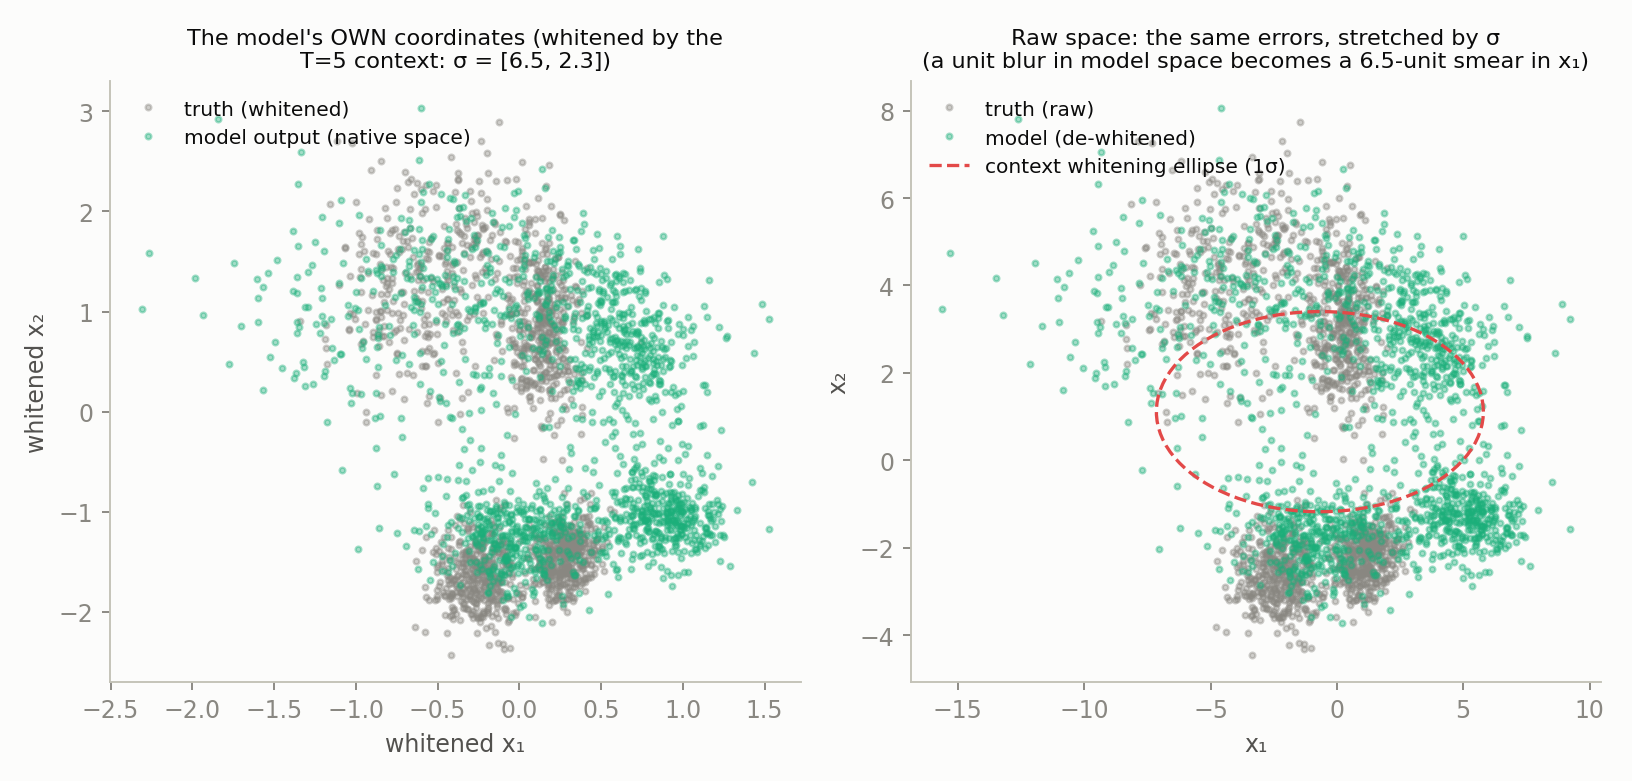
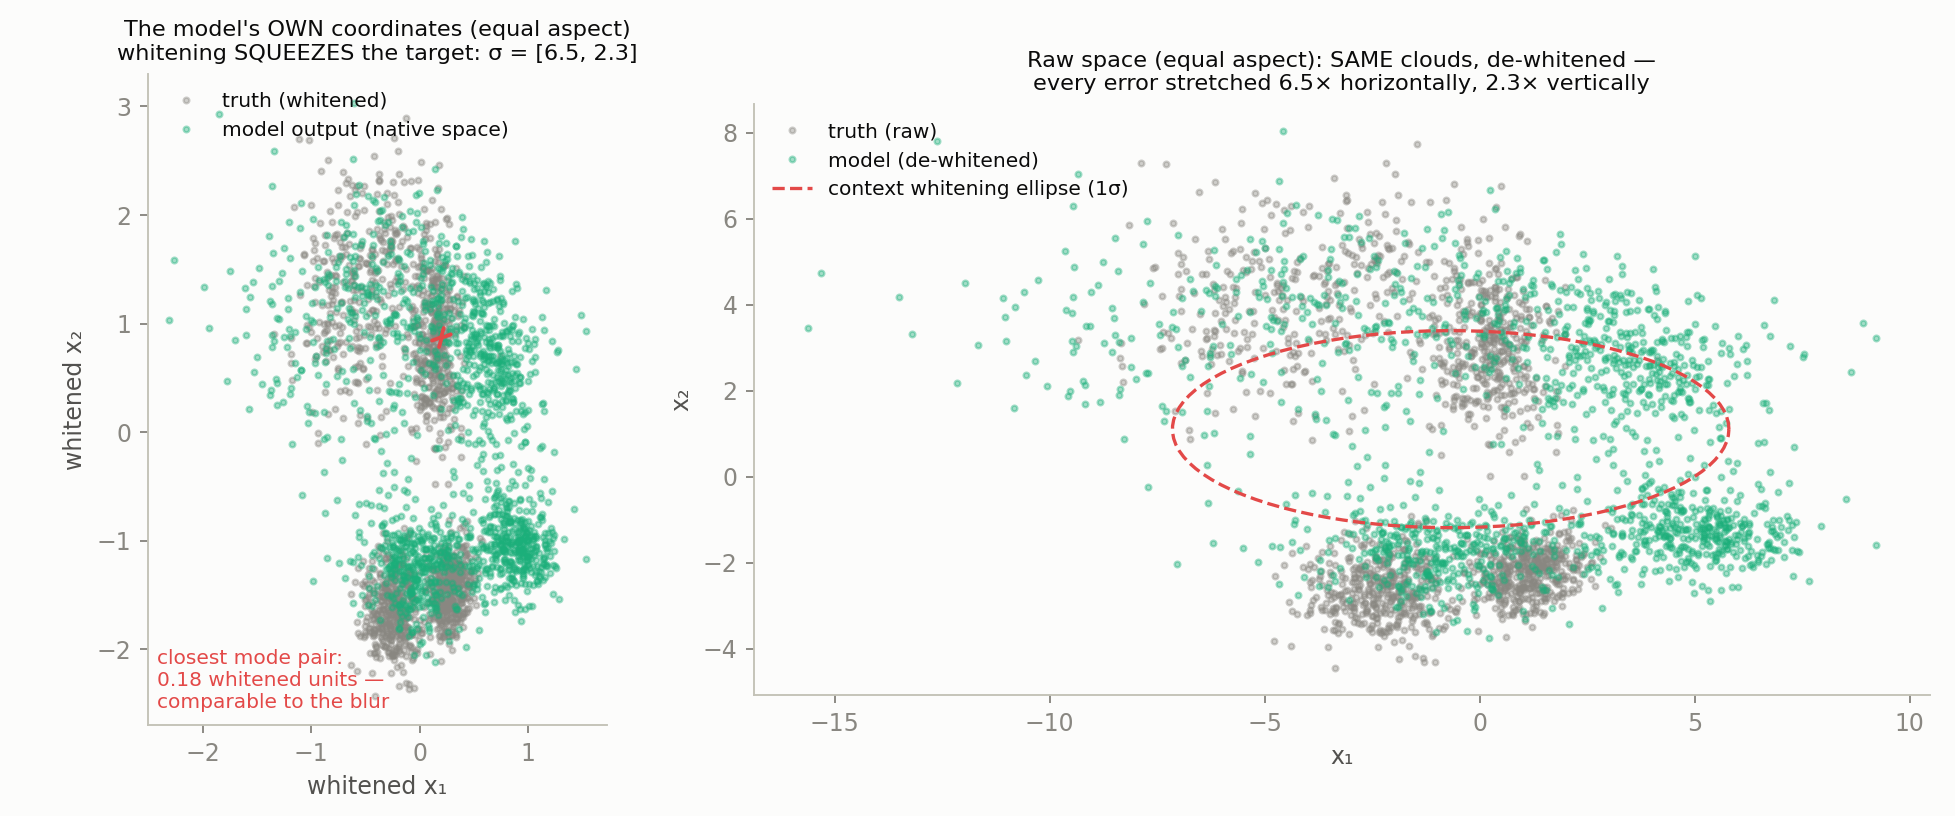
whitening diagnostic fixed: equal-aspect panels make the anisotropy visible as shape; closest-pair arrow computed (0.18 whitened units)

diff --git a/scripts/make_plots_whitediag.py b/scripts/make_plots_whitediag.py
@@ -40,15 +40,30 @@ truth = np.asarray(sample_x(jr.key(99), t, 1500))
 truth_w = np.asarray(whiten_apply(jnp.asarray(truth), ctx5.mu, ctx5.sigma))
 mu, sg = np.asarray(ctx5.mu), np.asarray(ctx5.sigma)
 
-fig, axes = plt.subplots(1, 2, figsize=(9.6, 4.6))
+fig, axes = plt.subplots(1, 2, figsize=(11.5, 4.8),
+                         gridspec_kw={'width_ratios': [1, 2.2]})
 ax = axes[0]
 ax.plot(truth_w[:, 0], truth_w[:, 1], "o", ms=2.4, alpha=0.4, color=MUTED,
         label="truth (whitened)")
 ax.plot(xw[:, 0], xw[:, 1], "o", ms=2.4, alpha=0.4, color=AQUA,
         label="model output (native space)")
+ax.set_aspect("equal")
+# adjacent-mode separation in the model's coordinates
+from ics.zoo import mode_centers
+mcw = (np.asarray(mode_centers(t)) - mu) / sg
+# the ACTUAL closest mode pair in whitened space (computed, not hand-picked)
+dists = np.linalg.norm(mcw[:, None, :] - mcw[None, :, :], axis=-1)
+np.fill_diagonal(dists, np.inf)
+i, j = np.unravel_index(np.argmin(dists), dists.shape)
+ax.annotate("", xy=tuple(mcw[j]), xytext=tuple(mcw[i]),
+            arrowprops=dict(arrowstyle="<->", color=RED, lw=1.6))
+ax.annotate(f"closest mode pair:\n{dists[i, j]:.2f} whitened units —\n"
+            "comparable to the blur",
+            (0.02, 0.02), xycoords="axes fraction", color=RED, fontsize=8.5,
+            va="bottom")
 ax.legend(fontsize=8.5, loc="upper left")
-ax.set_title("The model's OWN coordinates (whitened by the\nT=5 context: "
-             f"σ = [{sg[0]:.1f}, {sg[1]:.1f}])", fontsize=9.5, color=INK)
+ax.set_title("The model's OWN coordinates (equal aspect)\nwhitening SQUEEZES "
+             f"the target: σ = [{sg[0]:.1f}, {sg[1]:.1f}]", fontsize=9.5, color=INK)
 ax.set_xlabel("whitened x₁"); ax.set_ylabel("whitened x₂")
 ax = axes[1]
 xr = mu + sg * xw
@@ -59,9 +74,11 @@ ax.plot(xr[:, 0], xr[:, 1], "o", ms=2.4, alpha=0.4, color=AQUA,
 th = np.linspace(0, 2*np.pi, 100)
 ax.plot(mu[0] + sg[0]*np.cos(th), mu[1] + sg[1]*np.sin(th), "--", lw=1.4,
         color=RED, label="context whitening ellipse (1σ)")
+ax.set_aspect("equal")
 ax.legend(fontsize=8.5, loc="upper left")
-ax.set_title("Raw space: the same errors, stretched by σ\n(a unit blur in "
-             "model space becomes a 6.5-unit smear in x₁)", fontsize=9.5, color=INK)
+ax.set_title("Raw space (equal aspect): SAME clouds, de-whitened —\nevery "
+             "error stretched 6.5× horizontally, 2.3× vertically",
+             fontsize=9.5, color=INK)
 ax.set_xlabel("x₁"); ax.set_ylabel("x₂")
 fig.tight_layout()
 fig.savefig(os.path.join(R, "whitening_diag.png"), dpi=170)